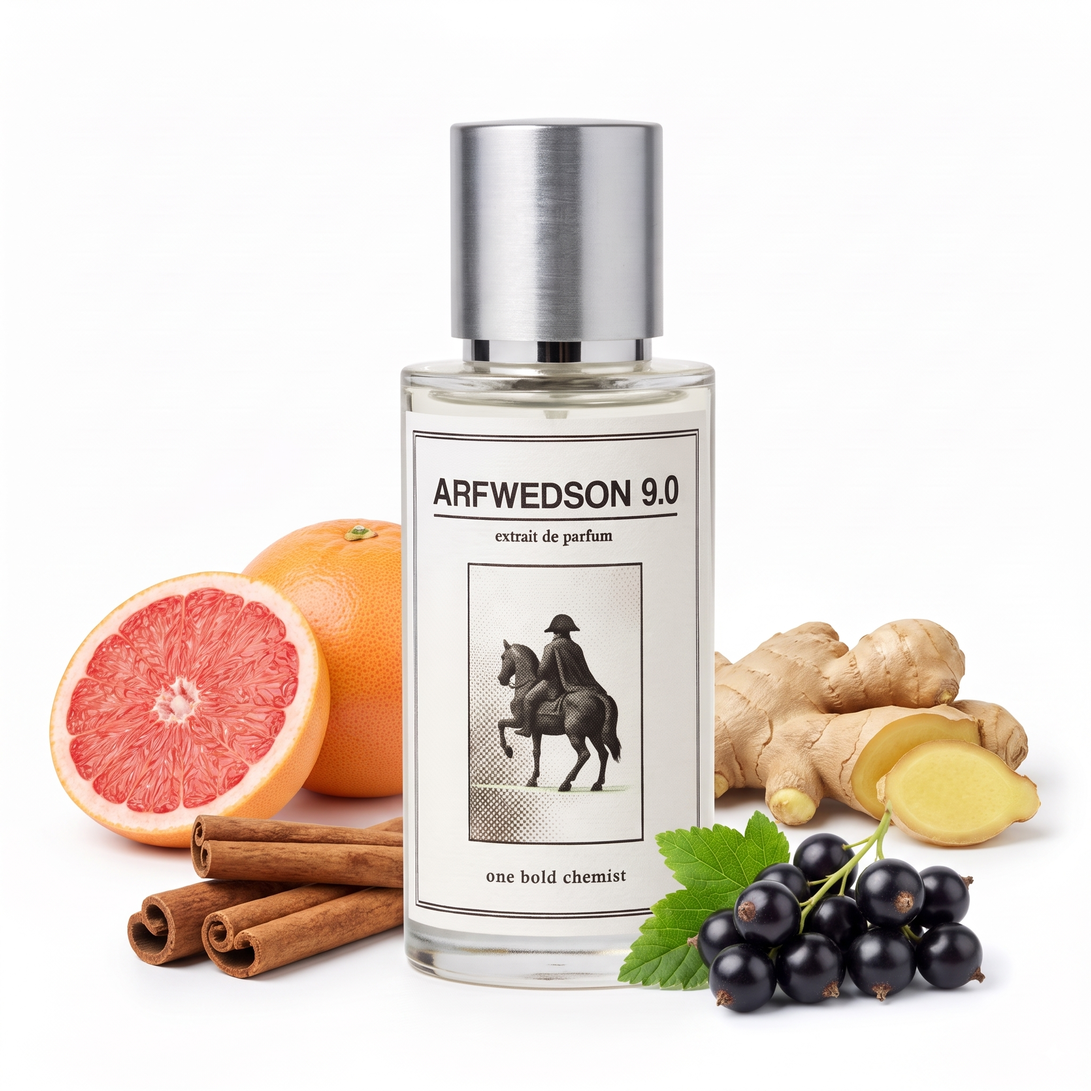
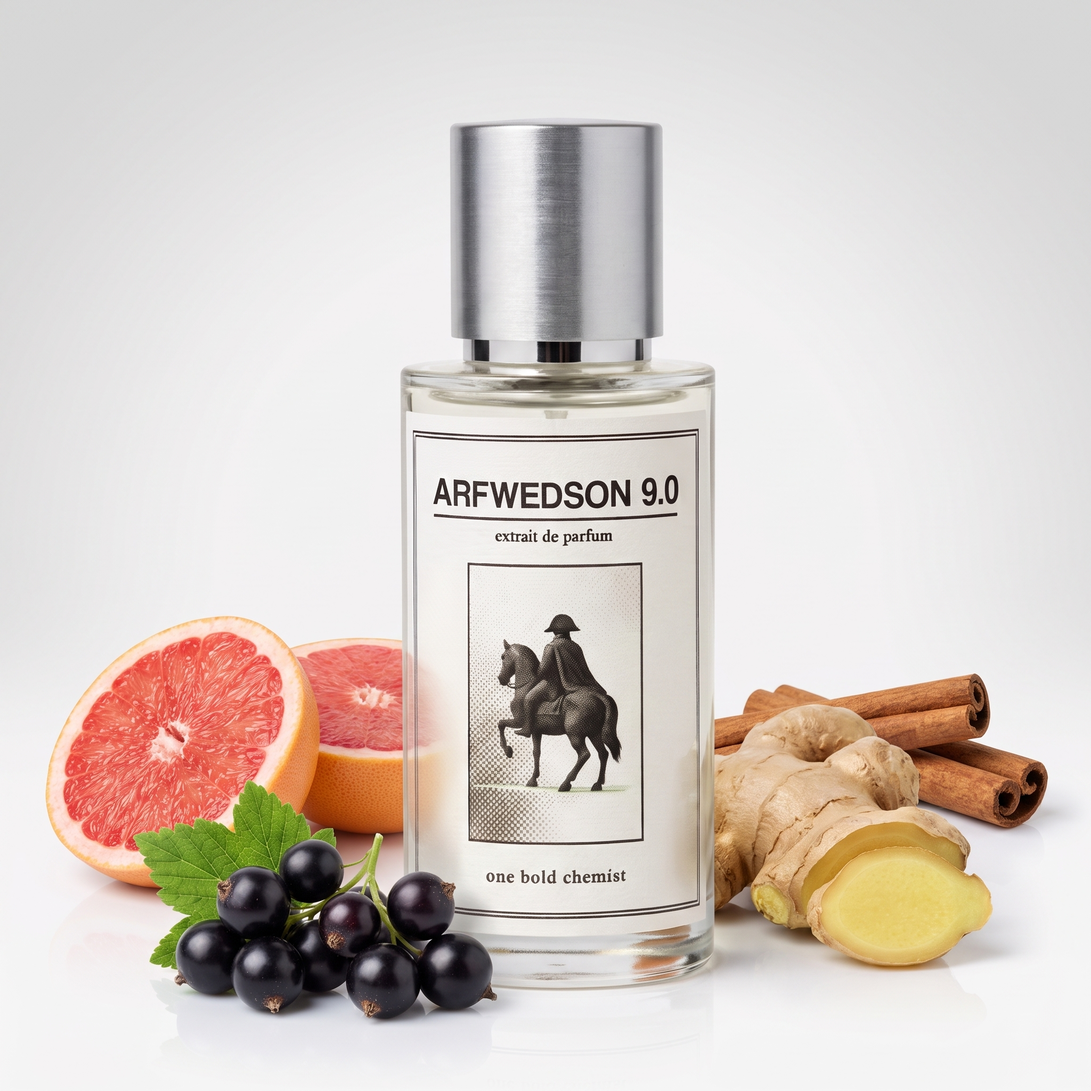
Regenerate notes images 1.0-10.0: straight-on camera, single studio shot, nothing cropped or behind the bottle
Prompt now fixes the camera to the product-photo angle, keeps the whole
arrangement inside the central 80% of the frame, describes lighting by
effect only (naming softboxes made the model draw them), keeps the space
behind the bottle empty, and passes an approved image as style reference.

Claude-Session: https://claude.ai/code/session_016v8pxCBCRgnJrBoVHWv8hg

diff --git a/notes-images/scripts/generate.py b/notes-images/scripts/generate.py
@@ -40,12 +40,21 @@ DEFAULT_MODEL = "gemini-3-pro-image-preview"  # "Nano Banana Pro"
 DEFAULT_OPENAI_MODEL = "gpt-image-1"
 OPENAI_API = "https://api.openai.com/v1"
 
-PROMPT_TEMPLATE = """Edit this image. It is a product photo of a 50 ml perfume bottle from One Bold Chemist. Keep the bottle EXACTLY as it is: the same glass bottle shape, the same brushed silver cap, the same liquid colour, and the same label with the exact text "{label}", "extrait de parfum" and "one bold chemist" plus the same small halftone illustration inside the label's frame. Do not redraw, retouch or alter a single letter or the artwork on the label. Re-frame the scene so the unchanged bottle stands centred on a pure white surface, about 60% of the image height with its base a little below the middle of the frame, seen from a slightly elevated camera angle, leaving open white space around it.
+PROMPT_TEMPLATE = """Edit this image. Image 1 is a product photo of a 50 ml perfume bottle from One Bold Chemist.{style_ref}
 
-On the white surface around the bottle, place the fragrance's raw ingredients as four separate small groups, spread out in a loose ring mostly in front of and beside the bottle, with clear white space between the groups and at most one or two pieces peeking out behind the bottle. Nothing is stacked, heaped or piled up, and nothing covers the label:
+BOTTLE: keep the bottle exactly as in image 1: the same glass bottle, brushed silver cap and liquid colour, and the same label with the exact text "{label}", "extrait de parfum" and "one bold chemist" plus the same small halftone illustration. Do not redraw, rotate, tilt or alter the label in any way.
+
+CAMERA: the same camera as image 1: a straight-on front view with the camera slightly above the label so the top of the cap and the table surface are just visible, the label facing the camera squarely, no rotation of the bottle, a normal 85 mm lens with no wide-angle distortion. The bottle stands centred and takes about 60% of the image height.
+
+SCENE: one single real studio photograph, shot on a medium-format camera at f/11. The bottle and all ingredients stand together on the same white seamless paper sweep with a subtle grey falloff at the top, lit by one large, soft light from the upper left and gently filled from the right, so every object shares the same soft directional light, has a soft contact shadow under it falling to the lower right, and a faint reflection on the paper. The ingredients closest to the bottle are faintly reflected and refracted in its glass, and the bottle casts its own soft shadow across the ingredients on its right. Same colour temperature, same sharpness and fine grain across the whole frame, slight natural depth of field towards the back. Nothing may look cut out, pasted in or floating; every object sits firmly on the surface. Nothing but the white sweep and the objects standing on it is visible anywhere in the frame; the picture has no visible edges, panels, walls or equipment of any kind.
+
+INGREDIENTS: arrange the fragrance's raw ingredients around the base of the bottle in four separate small groups, in front of and beside the bottle only. The space directly behind the bottle stays completely empty, so nothing is seen through the glass and the label is read against plain background. Clear space between the groups, nothing piled up and nothing covering the label:
 {ingredients}
+Each ingredient is real, tactile and at true scale relative to a 50 ml bottle.
 
-Every ingredient is a real, physical, tactile object at true scale relative to a 50 ml bottle, lying flat on the surface with realistic textures and soft natural shadows. Airy, minimal editorial composition, like a clean ingredient flat lay shot from a slightly elevated front angle that matches the bottle's perspective. Pure seamless white background with soft, even studio lighting. No text, no captions, no extra props, no hands. Square 1:1 image, high-end product photography."""
+FRAMING: the whole arrangement, bottle and ingredients together, sits inside the central 80% of the frame; the outer 10% on every side is empty background. No object touches or crosses the picture edge: make an ingredient smaller or move it inward rather than letting it reach the edge. No text, captions, extra props or hands. Square 1:1, high-end product photography."""
+
+STYLE_REF_SENTENCE = " Image 2 is a finished example of exactly the look wanted: match its camera angle, bottle size, lighting, shadow direction, ingredient scale and framing."
 
 
 FLOW_TEMPLATE = """Product still life of the exact perfume bottle from the reference image: the same 50 ml glass bottle, brushed silver cap, liquid colour and label with the text "{label}", "extrait de parfum" and "one bold chemist" and the same small halftone illustration, reproduced exactly with no changes to the label. The bottle stands centred on a pure white surface, about 60% of the frame height, seen from a slightly elevated angle.
@@ -78,10 +87,10 @@ def parse_skus(spec: str | None, available: list[int]) -> list[int]:
     return [n for n in available if n in wanted]
 
 
-def build_prompt(product: dict, ingredients: list[dict]) -> str:
+def build_prompt(product: dict, ingredients: list[dict], style_ref: bool = False) -> str:
     label = f"{product['name'].upper()} {product['number']}.0"
     lines = "\n".join(f"{i}. {ing['visual']} ({ing['note']})" for i, ing in enumerate(ingredients, 1))
-    return PROMPT_TEMPLATE.format(label=label, ingredients=lines)
+    return PROMPT_TEMPLATE.format(label=label, ingredients=lines, style_ref=STYLE_REF_SENTENCE if style_ref else "")
 
 
 def build_flow_prompt(product: dict, ingredients: list[dict]) -> str:
@@ -173,15 +182,21 @@ def generate_image_openai(model: str, size: str, bottle: Path, prompt: str, retr
     raise RuntimeError(f"gav upp efter {retries} försök: {last_err}")
 
 
-def generate_image(client, model: str, size: str, bottle: Path, prompt: str, retries: int = 3) -> tuple[bytes, str]:
+def _image_part(path: Path):
     from google.genai import types  # noqa: PLC0415
 
-    mime = "image/jpeg" if bottle.suffix.lower() in (".jpg", ".jpeg") else "image/png"
+    mime = "image/jpeg" if path.suffix.lower() in (".jpg", ".jpeg") else "image/png"
+    return types.Part.from_bytes(data=path.read_bytes(), mime_type=mime)
+
+
+def generate_image(client, model: str, size: str, bottle: Path, prompt: str, retries: int = 3, style_ref: Path | None = None) -> tuple[bytes, str]:
+    from google.genai import types  # noqa: PLC0415
+
     config = types.GenerateContentConfig(
         response_modalities=["TEXT", "IMAGE"],
         image_config=types.ImageConfig(aspect_ratio="1:1", **({} if size == "auto" else {"image_size": size})),
     )
-    contents = [types.Part.from_bytes(data=bottle.read_bytes(), mime_type=mime), prompt]
+    contents = [_image_part(bottle)] + ([_image_part(style_ref)] if style_ref else []) + [prompt]
     last_err: Exception | None = None
     for attempt in range(1, retries + 1):
         try:
@@ -213,6 +228,7 @@ def main() -> None:
     ap.add_argument("--force", action="store_true", help="generera om även om output-filen redan finns")
     ap.add_argument("--sleep", type=float, default=2.0, help="sekunder mellan API-anrop")
     ap.add_argument("--list-models", action="store_true", help="lista modeller som kan generera bilder och avsluta")
+    ap.add_argument("--style-ref", type=Path, default=None, help="färdig bild som stilreferens (skickas som bild 2 till Gemini), t.ex. output/04_bachelder_noter.jpg")
     ap.add_argument("--fetch-bottles", action="store_true", help="ladda bara ner flaskbilder från Shopify till reference/bottles/ (ingen generering)")
     args = ap.parse_args()
 
@@ -257,7 +273,7 @@ def main() -> None:
         if len(ingredients) != 4:
             print(f"  OBS: {product['title']} har {len(ingredients)} ingredienser i urvalet (förväntat 4)")
         stem = f"{product['number']:02d}_{slugify(product['name'])}"
-        prompt = build_prompt(product, ingredients)
+        prompt = build_prompt(product, ingredients, style_ref=bool(args.style_ref))
         (PROMPTS / f"{stem}.txt").write_text(prompt + "\n", encoding="utf-8")
         FLOW_PROMPTS.mkdir(exist_ok=True)
         (FLOW_PROMPTS / f"{stem}.txt").write_text(build_flow_prompt(product, ingredients) + "\n", encoding="utf-8")
@@ -274,7 +290,7 @@ def main() -> None:
             if args.provider == "openai":
                 data, mime = generate_image_openai(args.model, args.size, bottle, prompt)
             else:
-                data, mime = generate_image(client, args.model, args.size, bottle, prompt)
+                data, mime = generate_image(client, args.model, args.size, bottle, prompt, style_ref=args.style_ref)
             ext = "jpg" if "jpeg" in mime else "png"
             dest = OUTPUT / f"{stem}{suffix}.{ext}"
             dest.write_bytes(data)

diff --git a/notes-images/README.md b/notes-images/README.md
@@ -25,7 +25,7 @@ pip install -r requirements.txt
 export GEMINI_API_KEY=...        # https://aistudio.google.com/apikey
 
 python3 scripts/generate.py --dry-run          # skriver bara prompts/
-python3 scripts/generate.py --skus 1-10        # testkörning: parfym 1.0–10.0, 2K-bilder
+python3 scripts/generate.py --skus 1-10 --style-ref reference/style-ref.jpg   # parfym 1.0–10.0, 2K, med stilreferens
 python3 scripts/generate.py --skus 3 --force   # gör om en enskild
 ```
 
@@ -34,6 +34,8 @@ Modell: `gemini-3-pro-image-preview` (Nano Banana Pro; testbilderna 1.0–10.0 k
 Storlek: `--size 1K|2K|4K` (default 2K = 2048 px, samma som befintliga noter-bilder).
 
 GPT Image som alternativ: `python3 scripts/generate.py --provider openai --model gpt-image-2 --skus 2` (kräver `OPENAI_API_KEY`, max 1024 px).
+
+`--style-ref` skickar en färdig, godkänd bild som bild 2 till modellen så att vinkel, ljus och inramning hålls konsekvent. `reference/style-ref.jpg` är den bild som användes för 1.0–10.0.
 
 ## Manuellt i Gemini-appen / AI Studio
 
